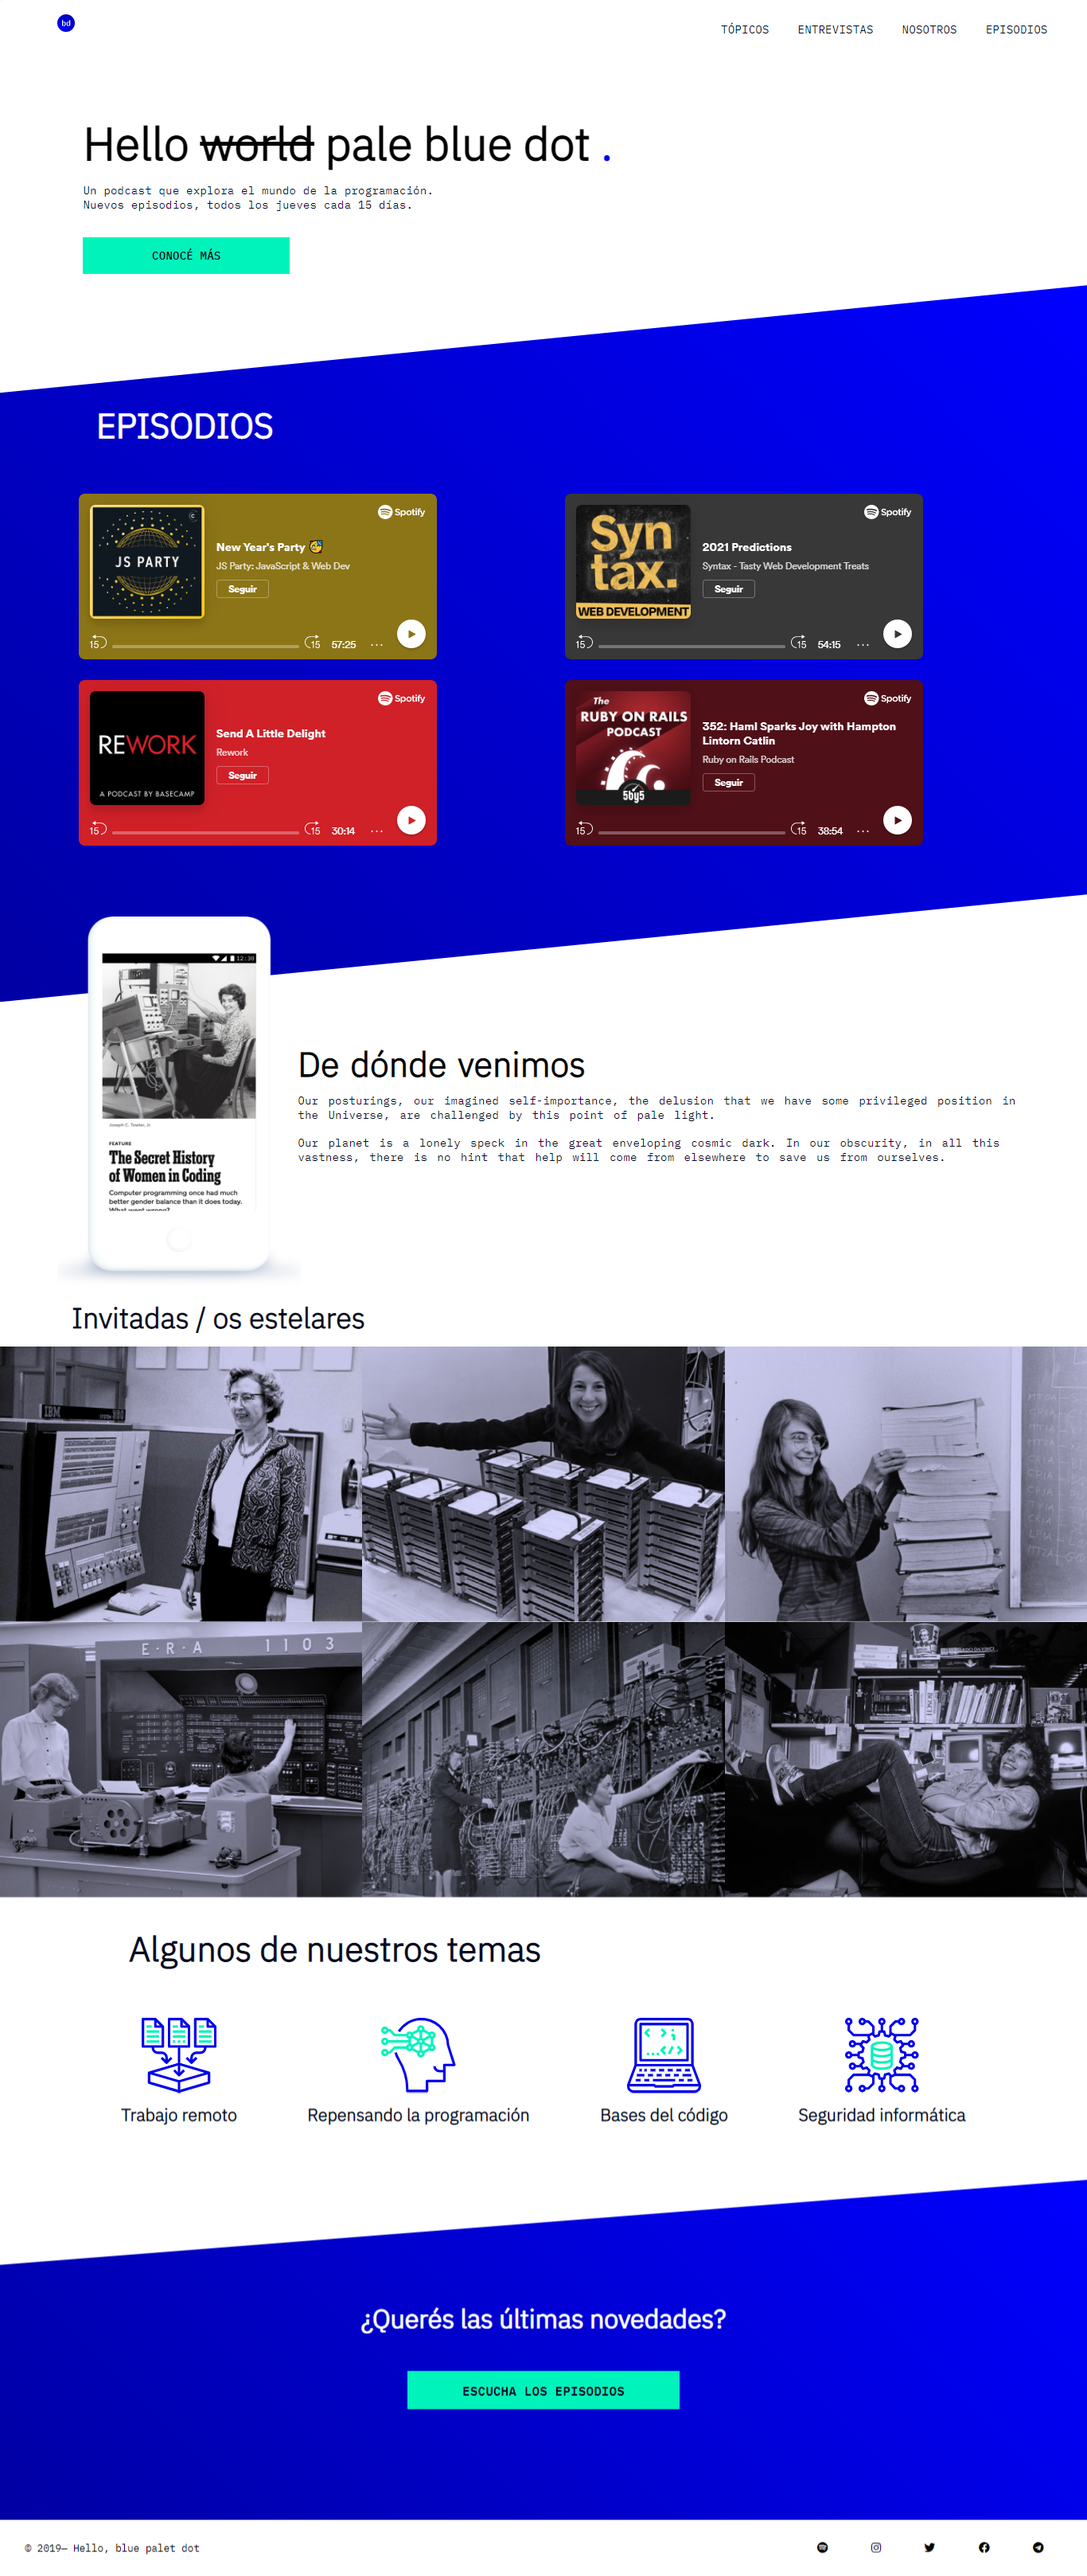
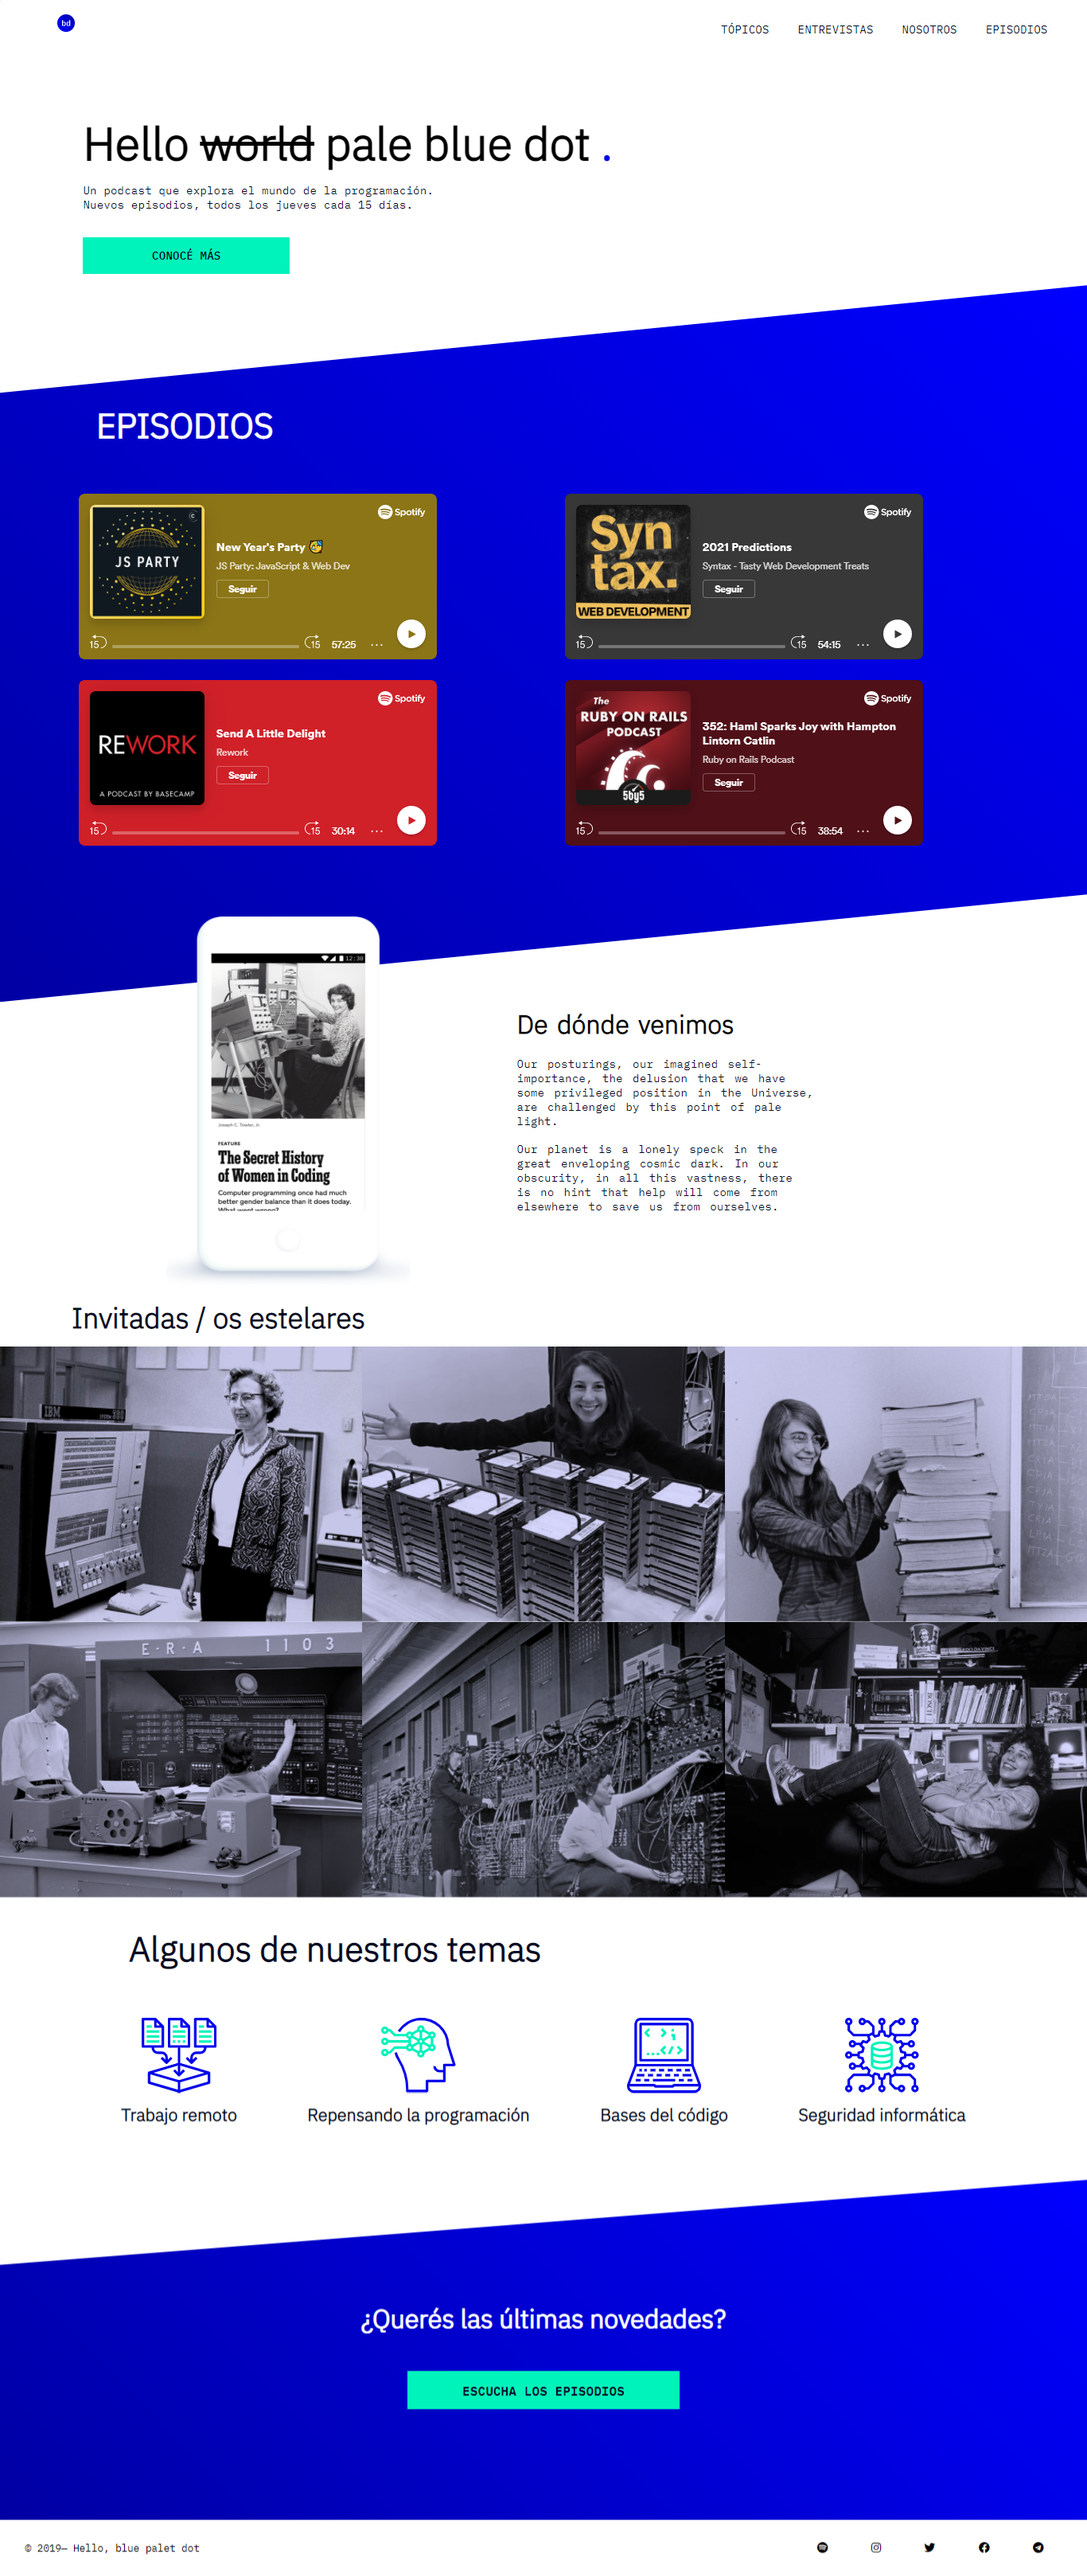
agregue el readme

Changed region(s): [[0.0615, 0.3434, 0.7379, 0.4995]]

diff --git a/estilos/estilos.css b/estilos/estilos.css
@@ -593,6 +593,26 @@ color: #060a24;
 font-size: 16px;
 line-height: 20px;
 }
+.about-container{
+
+  width:70%;
+    
+ }
+ .description{
+   margin: auto;
+   word-spacing: 4px;
+ width: 39%;
+   
+ }
+ .secondary-title{
+  font-family: "IBM Plex Sans" , sans-serif;
+  font-size: 36px;
+ display:inline;
+ line-height: 90px;
+
+
+}
+
 
 
 

diff --git a/README.md b/README.md
@@ -13,4 +13,3 @@ https://canaldepodcasts.netlify.app/
 <img src="https://github.com/flopixx/flopixx.github.io-/blob/master/images/Canal-de-podcasts%20(1).png">
 
 
-<img src="https://github.com/flopixx/flopixx.github.io-/blob/master/images/Canal-de-podcasts.png">
